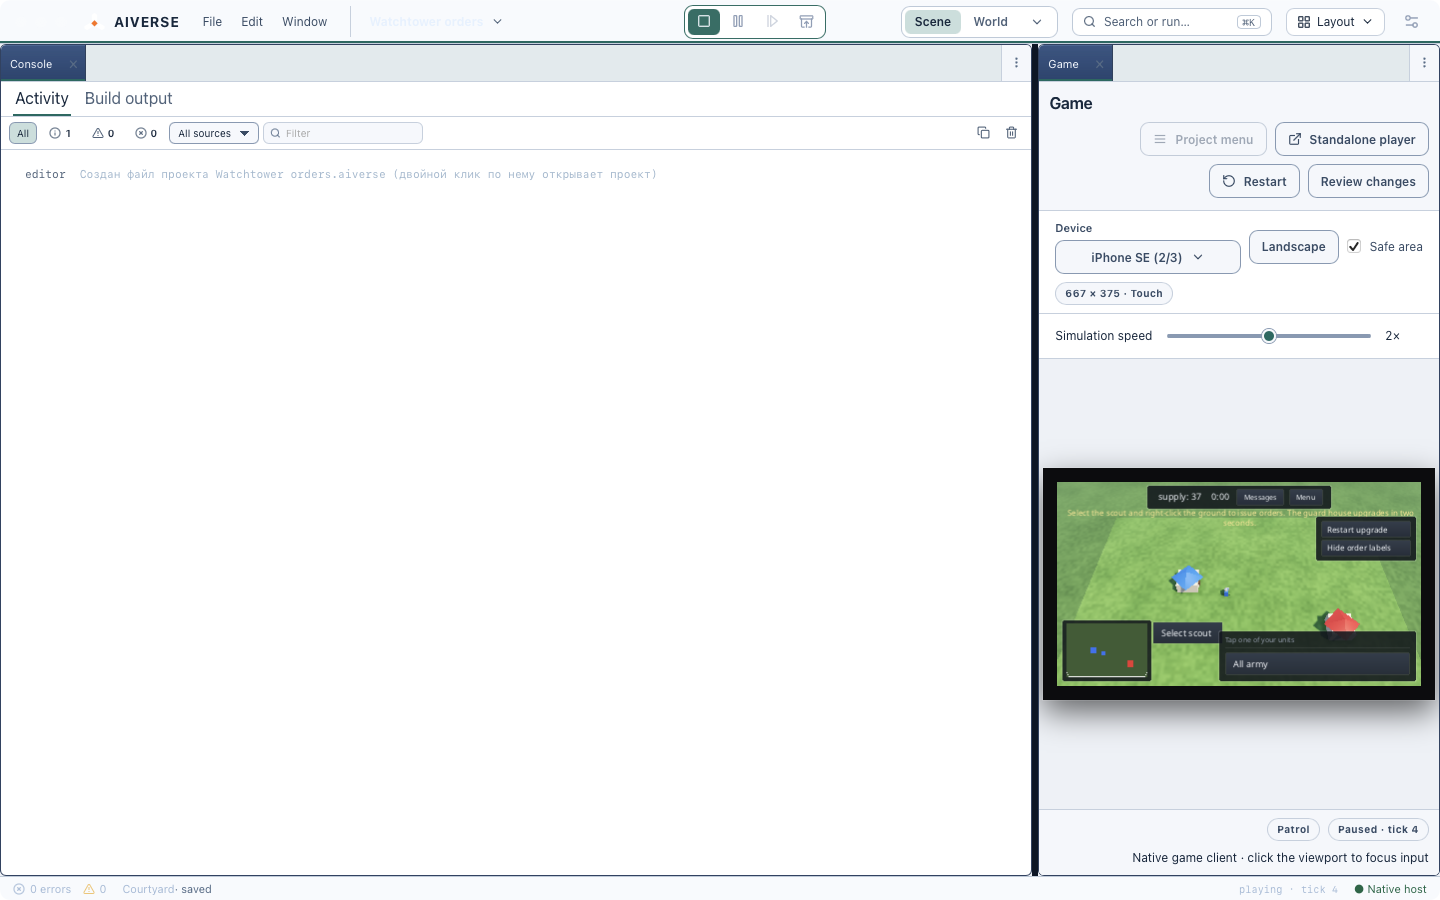
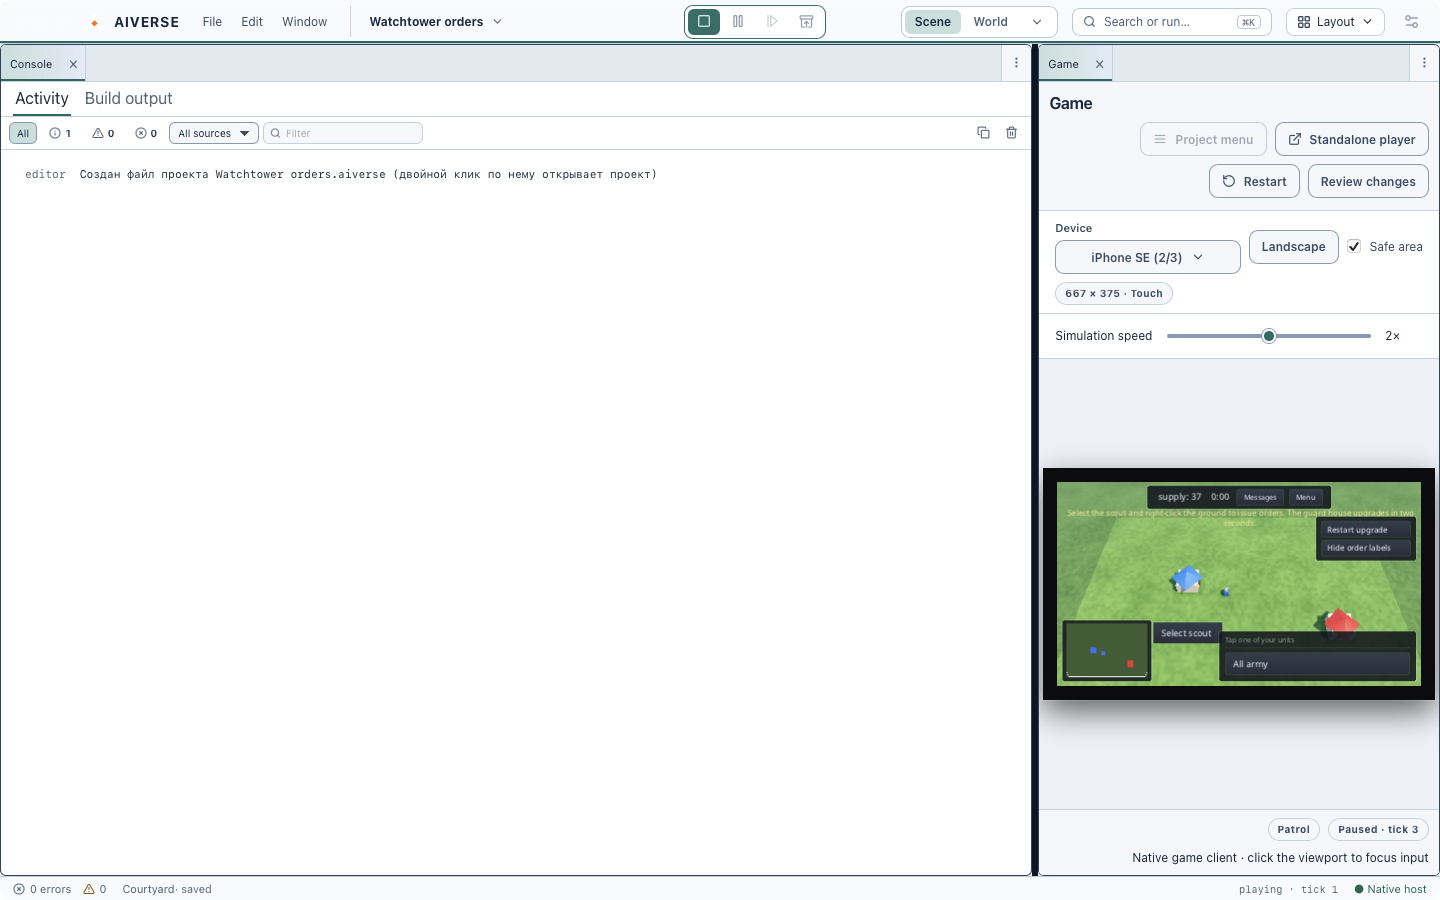
Capture corrected light Console and dock tab contrast on macOS

diff --git a/docs/handoff/studio-html5/studio-only-editor.md b/docs/handoff/studio-html5/studio-only-editor.md
@@ -1197,3 +1197,4 @@ Verified 68dbe545ac419942c8764b249f6c5f9ba5dc4715 in packaged macOS Studio. Link
 Verified 52ea57571a1e342ed9b6fdabec939f35842e03f3 on packaged macOS Studio with Materials and Inspector sharing a detached window. The detached DOM reported Inspector alone after MCP closed Materials, and editor_windows confirmed both states. Reopening Materials and restoring the saved main workspace also passed. Evidence: docs/evidence/studio-linked-window-detached.json. Next migrate editor_theme.
 Mac Studio build succeeded at 51cfd526390c28835aca069a2747671d2780d3c6. Initial appearance acceptance stopped before theme change because the fixture assumed tab order in the restored detached window. See docs/evidence/studio-appearance-linked.json. Retry with order-independent membership.
 Verified b8e4fc475 in packaged macOS Studio: editor_theme changed the main and detached WebViews to light/teal and both reported computed light color-scheme. See docs/evidence/studio-appearance-cross-window.json and docs/evidence/studio-project-catalog/light-teal-game.png. Remaining: visual contrast review and legacy operation audit.
+Verified 6cb860d1a in packaged macOS Studio. Inspected the native Console/Game capture before and after correcting the project title, log row and active dock tabs in the light theme. See docs/evidence/studio-light-chrome-contrast.json and docs/evidence/studio-project-catalog/light-teal-game.png. Continue parity checks across remaining panels and editor operations.
